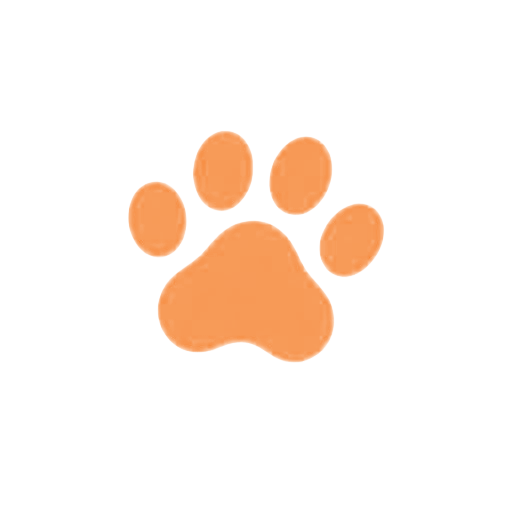
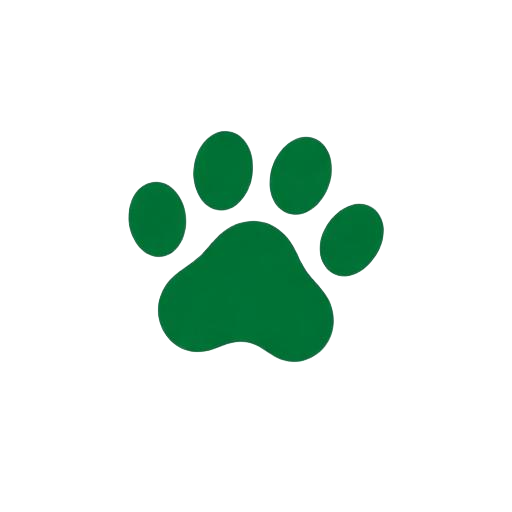
Add files via upload

Changed region(s): [[0.25, 0.25, 0.75, 0.7188]]

diff --git a/app.js b/app.js
@@ -581,4 +581,4 @@ https://github.com/nodeca/pako/blob/main/LICENSE
         h2 { margin-bottom: 5px; }
         .period { color: #666; margin-bottom: 10px; }
         @media print { body { margin: 10px; } }
-      </style></head><body>${A}</body></html>`),T.document.close(),T.print())},S=A=>{const T=yt(A);return ml(T)?zt(T,"dd/MM/yyyy"):A};return h.jsxs("div",{className:"p-2 md:p-6 space-y-4",children:[h.jsxs("h1",{className:"text-xl lg:text-2xl font-serif font-bold flex items-center gap-2",children:[h.jsx(Jw,{className:"h-6 w-6"}),"Déclaration"]}),h.jsxs(iD,{defaultValue:"urssaf",className:"space-y-4",children:[h.jsxs(W2,{children:[h.jsx(pi,{value:"urssaf",children:"URSSAF"}),h.jsx(pi,{value:"registre",children:"Livre de Registre"})]}),h.jsx(mi,{value:"urssaf",children:h.jsxs(kr,{children:[h.jsx(mn,{className:"pb-3",children:h.jsx(vn,{className:"text-lg",children:"URSSAF"})}),h.jsxs(Or,{className:"space-y-4",children:[h.jsxs("div",{className:"flex items-center gap-2 flex-wrap",children:[h.jsxs("div",{className:"flex rounded-md border border-border overflow-hidden",children:[h.jsx("button",{onClick:()=>i("trimestre"),className:ct("px-3 py-1.5 text-sm font-medium transition-colors",a==="trimestre"?"bg-primary text-primary-foreground":"bg-background hover:bg-muted"),children:"Trimestre"}),h.jsx("button",{onClick:()=>i("mois"),className:ct("px-3 py-1.5 text-sm font-medium transition-colors",a==="mois"?"bg-primary text-primary-foreground":"bg-background hover:bg-muted"),children:"Mois"})]}),h.jsxs(fn,{value:String(o),onValueChange:A=>s(Number(A)),children:[h.jsx(rn,{className:"w-24 h-8 text-sm",children:h.jsx(dn,{})}),h.jsx(nn,{children:v.map(A=>h.jsx(ir,{value:String(A),children:A},A))})]})]}),a==="trimestre"?h.jsxs(fn,{value:String(l),onValueChange:A=>c(Number(A)),children:[h.jsx(rn,{className:"w-48 h-8 text-sm",children:h.jsx(dn,{})}),h.jsx(nn,{children:n8.map((A,T)=>h.jsx(ir,{value:String(T),children:A.label},T))})]}):h.jsx("div",{className:"grid grid-cols-3 sm:grid-cols-4 gap-2",children:jWe.map((A,T)=>h.jsxs("label",{className:"flex items-center gap-1.5 text-sm cursor-pointer",children:[h.jsx(Mh,{checked:u.includes(T),onCheckedChange:()=>b(T)}),A.slice(0,3)]},T))}),h.jsx(Cy,{}),h.jsxs("div",{children:[h.jsx("h3",{className:"font-semibold text-sm mb-2",children:"Déclaration"}),h.jsx("div",{className:"bg-muted/50 rounded-md p-3",children:h.jsxs("div",{className:"flex justify-between items-center",children:[h.jsx("span",{className:"text-sm",children:"Chiffre d'affaires des prestations de services commerciales ou artisanales"}),h.jsxs("span",{className:"font-bold text-base whitespace-nowrap ml-2",children:[y.toFixed(2)," €"]})]})})]}),h.jsx(Cy,{}),h.jsxs("div",{children:[h.jsx("h3",{className:"font-semibold text-sm mb-2",children:"Cotisations"}),h.jsxs("div",{className:"space-y-2",children:[r.map((A,T)=>{const P=Math.round(y*(A.rate/100));return h.jsxs("div",{className:"flex justify-between items-center bg-muted/30 rounded-md px-3 py-2",children:[h.jsxs("span",{className:"text-sm",children:[A.name," (",A.rate,"%)"]}),h.jsxs("span",{className:"font-medium text-sm whitespace-nowrap ml-2",children:[P," €"]})]},T)}),r.length===0&&h.jsx("p",{className:"text-sm text-muted-foreground italic",children:"Aucune cotisation configurée dans les paramètres fiscaux."}),h.jsx(Cy,{}),h.jsxs("div",{className:"flex justify-between items-center bg-primary/10 rounded-md px-3 py-2",children:[h.jsx("span",{className:"font-semibold text-sm",children:"Total cotisations"}),h.jsxs("span",{className:"font-bold whitespace-nowrap ml-2",children:[r.reduce((A,T)=>A+Math.round(y*(T.rate/100)),0)," €"]})]})]})]})]})]})}),h.jsx(mi,{value:"registre",children:h.jsxs(kr,{children:[h.jsx(mn,{className:"pb-3",children:h.jsxs("div",{className:"flex items-center justify-between",children:[h.jsx(vn,{className:"text-lg",children:"Livre de Registre"}),h.jsxs(We,{variant:"outline",size:"sm",onClick:E,className:"gap-1.5",children:[h.jsx(tQ,{className:"h-4 w-4"}),"Imprimer"]})]})}),h.jsxs(Or,{className:"space-y-4",children:[h.jsxs("div",{className:"flex items-center gap-2 flex-wrap",children:[h.jsx("span",{className:"text-sm font-medium",children:"Du"}),h.jsx(ot,{type:"date",className:"w-40 h-8 text-sm",value:d?zt(d,"yyyy-MM-dd"):"",onChange:A=>{const T=A.target.value?yt(A.target.value):void 0;p(T&&ml(T)?T:void 0)}}),h.jsx("span",{className:"text-sm font-medium",children:"Au"}),h.jsx(ot,{type:"date",className:"w-40 h-8 text-sm",value:g?zt(g,"yyyy-MM-dd"):"",onChange:A=>{const T=A.target.value?yt(A.target.value):void 0;m(T&&ml(T)?T:void 0)}})]}),h.jsxs("div",{ref:n,children:[h.jsx("h2",{style:{display:"none"},children:"Livre de Registre"}),d&&g&&h.jsxs("p",{className:"period text-sm text-muted-foreground mb-2",style:{display:"none"},children:["Période : ",zt(d,"dd/MM/yyyy")," — ",zt(g,"dd/MM/yyyy")]}),h.jsx("div",{className:"overflow-x-auto rounded-md border border-border",children:h.jsxs(Is,{children:[h.jsx(Fs,{children:h.jsxs(Pn,{children:[h.jsx(Et,{className:"text-xs whitespace-nowrap",children:"Nuits réelles"}),h.jsx(Et,{className:"text-xs whitespace-nowrap",children:"Nuits registre"}),h.jsx(Et,{className:"text-xs whitespace-nowrap",children:"Date d'arrivée"}),h.jsx(Et,{className:"text-xs whitespace-nowrap",children:"Propriétaire + Adresse"}),h.jsx(Et,{className:"text-xs whitespace-nowrap",children:"Sexe"}),h.jsx(Et,{className:"text-xs whitespace-nowrap",children:"N° Identification"}),h.jsx(Et,{className:"text-xs whitespace-nowrap",children:"Race + Nom"}),h.jsx(Et,{className:"text-xs whitespace-nowrap",children:"Date de naissance"}),h.jsx(Et,{className:"text-xs whitespace-nowrap",children:"Date de départ"})]})}),h.jsx(Ms,{children:w.length===0?h.jsx(Pn,{children:h.jsx(mt,{colSpan:9,className:"text-center text-muted-foreground text-sm py-6",children:"Aucun séjour pour cette période"})}):w.map(A=>{const T=_(A.dogId),P=T?[T.ownerLastName,T.ownerFirstName].filter(Boolean).join(" "):"",I=(T==null?void 0:T.address)||"",D=[P,I].filter(Boolean).join(" — "),L=A.nights!==(A.nightsRegistre||0);return h.jsxs(Pn,{className:ct("text-xs",L&&"bg-muted/50"),children:[h.jsx(mt,{className:"whitespace-nowrap",children:A.nights}),h.jsx(mt,{className:"whitespace-nowrap",children:A.nightsRegistre||0}),h.jsx(mt,{className:"whitespace-nowrap",children:S(A.arrivalDate)}),h.jsx(mt,{className:"min-w-[160px]",children:D||"-"}),h.jsx(mt,{children:(T==null?void 0:T.sex)||"-"}),h.jsx(mt,{className:"whitespace-nowrap",children:(T==null?void 0:T.identificationNumber)||"-"}),h.jsx(mt,{className:"whitespace-nowrap",children:[T==null?void 0:T.breed,A.dogName].filter(Boolean).join(" — ")}),h.jsx(mt,{className:"whitespace-nowrap",children:T!=null&&T.birthDate?S(T.birthDate):"-"}),h.jsx(mt,{className:"whitespace-nowrap",children:S(A.departureDate)})]},A.id)})})]})})]})]})]})})]})]})},FWe=()=>{const[e,t]=k.useState(""),[r,n]=k.useState(""),[a,i]=k.useState(!1),[o,s]=k.useState(!1),[l,c]=k.useState(!1),[u,f]=k.useState(!1),{toast:d}=Bk(),p=ug();k.useEffect(()=>{const{data:{subscription:m}}=At.auth.onAuthStateChange(v=>{v==="PASSWORD_RECOVERY"&&f(!0)});return At.auth.getSession().then(({data:{session:v}})=>{v&&f(!0)}),()=>m.unsubscribe()},[]);const g=async m=>{if(m.preventDefault(),e!==r){d({title:"Erreur",description:"Les mots de passe ne correspondent pas.",variant:"destructive"});return}if(e.length<6){d({title:"Erreur",description:"Le mot de passe doit contenir au moins 6 caractères.",variant:"destructive"});return}c(!0);const{error:v}=await At.auth.updateUser({password:e});v?d({title:"Erreur",description:v.message,variant:"destructive"}):(await At.auth.signOut(),d({title:"Succès",description:"Mot de passe mis à jour avec succès."}),p("/",{replace:!0})),c(!1)};return u?h.jsx("div",{className:"min-h-screen flex items-center justify-center bg-muted/30 p-4",children:h.jsxs(kr,{className:"w-full max-w-sm",children:[h.jsxs(mn,{className:"text-center",children:[h.jsx("div",{className:"flex justify-center mb-2",children:h.jsx(iB,{className:"h-10 w-10 text-primary"})}),h.jsx(vn,{className:"text-xl",children:"Nouveau mot de passe"}),h.jsx("p",{className:"text-sm text-muted-foreground",children:"Saisissez votre nouveau mot de passe"})]}),h.jsx(Or,{children:h.jsxs("form",{onSubmit:g,className:"space-y-4",children:[h.jsxs("div",{className:"space-y-2",children:[h.jsx(at,{htmlFor:"new-password",children:"Nouveau mot de passe"}),h.jsxs("div",{className:"relative",children:[h.jsx(ot,{id:"new-password",type:a?"text":"password",value:e,onChange:m=>t(m.target.value),required:!0,autoComplete:"new-password",className:"pr-10"}),h.jsx("button",{type:"button",onClick:()=>i(!a),className:"absolute right-3 top-1/2 -translate-y-1/2 text-muted-foreground hover:text-foreground transition-colors",tabIndex:-1,children:a?h.jsx(Qy,{className:"h-4 w-4"}):h.jsx(Nm,{className:"h-4 w-4"})})]})]}),h.jsxs("div",{className:"space-y-2",children:[h.jsx(at,{htmlFor:"confirm-password",children:"Confirmer le mot de passe"}),h.jsxs("div",{className:"relative",children:[h.jsx(ot,{id:"confirm-password",type:o?"text":"password",value:r,onChange:m=>n(m.target.value),required:!0,autoComplete:"new-password",className:"pr-10"}),h.jsx("button",{type:"button",onClick:()=>s(!o),className:"absolute right-3 top-1/2 -translate-y-1/2 text-muted-foreground hover:text-foreground transition-colors",tabIndex:-1,children:o?h.jsx(Qy,{className:"h-4 w-4"}):h.jsx(Nm,{className:"h-4 w-4"})})]})]}),h.jsx(We,{type:"submit",className:"w-full",disabled:l,children:l?"Enregistrement...":"Enregistrer le nouveau mot de passe"})]})})]})}):h.jsx("div",{className:"min-h-screen flex items-center justify-center bg-muted/30 p-4",children:h.jsx("div",{className:"animate-spin h-8 w-8 border-4 border-primary border-t-transparent rounded-full"})})},MWe=()=>{const e=zf();return k.useEffect(()=>{console.error("404 Error: User attempted to access non-existent route:",e.pathname)},[e.pathname]),h.jsx("div",{className:"flex min-h-screen items-center justify-center bg-muted",children:h.jsxs("div",{className:"text-center",children:[h.jsx("h1",{className:"mb-4 text-4xl font-bold",children:"404"}),h.jsx("p",{className:"mb-4 text-xl text-muted-foreground",children:"Oops! Page not found"}),h.jsx("a",{href:"/",className:"text-primary underline hover:text-primary/90",children:"Return to Home"})]})})},RWe=new Tte,LWe=()=>h.jsx(Cte,{client:RWe,children:h.jsxs(Xp,{children:[h.jsx(BQ,{}),h.jsx(gJ,{}),h.jsx(Sre,{children:h.jsxs(y4,{children:[h.jsx(lo,{path:"/reset-password",element:h.jsx(FWe,{})}),h.jsx(lo,{path:"/*",element:h.jsx(gae,{children:h.jsx(uae,{children:h.jsx(yae,{children:h.jsxs(y4,{children:[h.jsx(lo,{path:"/",element:h.jsx(aoe,{})}),h.jsx(lo,{path:"/sejour/nouveau",element:h.jsx(Jfe,{})}),h.jsx(lo,{path:"/clients",element:h.jsx(bde,{})}),h.jsx(lo,{path:"/sejours",element:h.jsx(Ade,{})}),h.jsx(lo,{path:"/calendrier",element:h.jsx(kde,{})}),h.jsx(lo,{path:"/bilan",element:h.jsx(aFe,{})}),h.jsx(lo,{path:"/declaration",element:h.jsx(IWe,{})}),h.jsx(lo,{path:"/parametres",element:h.jsx(OWe,{})}),h.jsx(lo,{path:"*",element:h.jsx(MWe,{})})]})})})})})]})})]})}),BWe=(()=>{try{return window.self!==window.top}catch{return!0}})(),$We=window.location.hostname.includes("id-preview--")||window.location.hostname.includes("lovableproject.com");var d8;($We||BWe)&&((d8=navigator.serviceWorker)==null||d8.getRegistrations().then(e=>{e.forEach(t=>t.unregister())}));AL(document.getElementById("root")).render(h.jsx(LWe,{}));{document.title="CdC TEST";const e=document.createElement("div");e.textContent="VERSION TEST",e.setAttribute("style","position:fixed;z-index:9999;right:calc(12px + env(safe-area-inset-right,0px));bottom:calc(12px + env(safe-area-inset-bottom,0px));background:#EA580C;color:#fff;font:700 12px/1 Poppins,system-ui,sans-serif;letter-spacing:.06em;padding:8px 12px;border-radius:999px;box-shadow:0 2px 6px rgba(0,0,0,.25);pointer-events:none;"),document.body.appendChild(e)}
+      </style></head><body>${A}</body></html>`),T.document.close(),T.print())},S=A=>{const T=yt(A);return ml(T)?zt(T,"dd/MM/yyyy"):A};return h.jsxs("div",{className:"p-2 md:p-6 space-y-4",children:[h.jsxs("h1",{className:"text-xl lg:text-2xl font-serif font-bold flex items-center gap-2",children:[h.jsx(Jw,{className:"h-6 w-6"}),"Déclaration"]}),h.jsxs(iD,{defaultValue:"urssaf",className:"space-y-4",children:[h.jsxs(W2,{children:[h.jsx(pi,{value:"urssaf",children:"URSSAF"}),h.jsx(pi,{value:"registre",children:"Livre de Registre"})]}),h.jsx(mi,{value:"urssaf",children:h.jsxs(kr,{children:[h.jsx(mn,{className:"pb-3",children:h.jsx(vn,{className:"text-lg",children:"URSSAF"})}),h.jsxs(Or,{className:"space-y-4",children:[h.jsxs("div",{className:"flex items-center gap-2 flex-wrap",children:[h.jsxs("div",{className:"flex rounded-md border border-border overflow-hidden",children:[h.jsx("button",{onClick:()=>i("trimestre"),className:ct("px-3 py-1.5 text-sm font-medium transition-colors",a==="trimestre"?"bg-primary text-primary-foreground":"bg-background hover:bg-muted"),children:"Trimestre"}),h.jsx("button",{onClick:()=>i("mois"),className:ct("px-3 py-1.5 text-sm font-medium transition-colors",a==="mois"?"bg-primary text-primary-foreground":"bg-background hover:bg-muted"),children:"Mois"})]}),h.jsxs(fn,{value:String(o),onValueChange:A=>s(Number(A)),children:[h.jsx(rn,{className:"w-24 h-8 text-sm",children:h.jsx(dn,{})}),h.jsx(nn,{children:v.map(A=>h.jsx(ir,{value:String(A),children:A},A))})]})]}),a==="trimestre"?h.jsxs(fn,{value:String(l),onValueChange:A=>c(Number(A)),children:[h.jsx(rn,{className:"w-48 h-8 text-sm",children:h.jsx(dn,{})}),h.jsx(nn,{children:n8.map((A,T)=>h.jsx(ir,{value:String(T),children:A.label},T))})]}):h.jsx("div",{className:"grid grid-cols-3 sm:grid-cols-4 gap-2",children:jWe.map((A,T)=>h.jsxs("label",{className:"flex items-center gap-1.5 text-sm cursor-pointer",children:[h.jsx(Mh,{checked:u.includes(T),onCheckedChange:()=>b(T)}),A.slice(0,3)]},T))}),h.jsx(Cy,{}),h.jsxs("div",{children:[h.jsx("h3",{className:"font-semibold text-sm mb-2",children:"Déclaration"}),h.jsx("div",{className:"bg-muted/50 rounded-md p-3",children:h.jsxs("div",{className:"flex justify-between items-center",children:[h.jsx("span",{className:"text-sm",children:"Chiffre d'affaires des prestations de services commerciales ou artisanales"}),h.jsxs("span",{className:"font-bold text-base whitespace-nowrap ml-2",children:[y.toFixed(2)," €"]})]})})]}),h.jsx(Cy,{}),h.jsxs("div",{children:[h.jsx("h3",{className:"font-semibold text-sm mb-2",children:"Cotisations"}),h.jsxs("div",{className:"space-y-2",children:[r.map((A,T)=>{const P=Math.round(y*(A.rate/100));return h.jsxs("div",{className:"flex justify-between items-center bg-muted/30 rounded-md px-3 py-2",children:[h.jsxs("span",{className:"text-sm",children:[A.name," (",A.rate,"%)"]}),h.jsxs("span",{className:"font-medium text-sm whitespace-nowrap ml-2",children:[P," €"]})]},T)}),r.length===0&&h.jsx("p",{className:"text-sm text-muted-foreground italic",children:"Aucune cotisation configurée dans les paramètres fiscaux."}),h.jsx(Cy,{}),h.jsxs("div",{className:"flex justify-between items-center bg-primary/10 rounded-md px-3 py-2",children:[h.jsx("span",{className:"font-semibold text-sm",children:"Total cotisations"}),h.jsxs("span",{className:"font-bold whitespace-nowrap ml-2",children:[r.reduce((A,T)=>A+Math.round(y*(T.rate/100)),0)," €"]})]})]})]})]})]})}),h.jsx(mi,{value:"registre",children:h.jsxs(kr,{children:[h.jsx(mn,{className:"pb-3",children:h.jsxs("div",{className:"flex items-center justify-between",children:[h.jsx(vn,{className:"text-lg",children:"Livre de Registre"}),h.jsxs(We,{variant:"outline",size:"sm",onClick:E,className:"gap-1.5",children:[h.jsx(tQ,{className:"h-4 w-4"}),"Imprimer"]})]})}),h.jsxs(Or,{className:"space-y-4",children:[h.jsxs("div",{className:"flex items-center gap-2 flex-wrap",children:[h.jsx("span",{className:"text-sm font-medium",children:"Du"}),h.jsx(ot,{type:"date",className:"w-40 h-8 text-sm",value:d?zt(d,"yyyy-MM-dd"):"",onChange:A=>{const T=A.target.value?yt(A.target.value):void 0;p(T&&ml(T)?T:void 0)}}),h.jsx("span",{className:"text-sm font-medium",children:"Au"}),h.jsx(ot,{type:"date",className:"w-40 h-8 text-sm",value:g?zt(g,"yyyy-MM-dd"):"",onChange:A=>{const T=A.target.value?yt(A.target.value):void 0;m(T&&ml(T)?T:void 0)}})]}),h.jsxs("div",{ref:n,children:[h.jsx("h2",{style:{display:"none"},children:"Livre de Registre"}),d&&g&&h.jsxs("p",{className:"period text-sm text-muted-foreground mb-2",style:{display:"none"},children:["Période : ",zt(d,"dd/MM/yyyy")," — ",zt(g,"dd/MM/yyyy")]}),h.jsx("div",{className:"overflow-x-auto rounded-md border border-border",children:h.jsxs(Is,{children:[h.jsx(Fs,{children:h.jsxs(Pn,{children:[h.jsx(Et,{className:"text-xs whitespace-nowrap",children:"Nuits réelles"}),h.jsx(Et,{className:"text-xs whitespace-nowrap",children:"Nuits registre"}),h.jsx(Et,{className:"text-xs whitespace-nowrap",children:"Date d'arrivée"}),h.jsx(Et,{className:"text-xs whitespace-nowrap",children:"Propriétaire + Adresse"}),h.jsx(Et,{className:"text-xs whitespace-nowrap",children:"Sexe"}),h.jsx(Et,{className:"text-xs whitespace-nowrap",children:"N° Identification"}),h.jsx(Et,{className:"text-xs whitespace-nowrap",children:"Race + Nom"}),h.jsx(Et,{className:"text-xs whitespace-nowrap",children:"Date de naissance"}),h.jsx(Et,{className:"text-xs whitespace-nowrap",children:"Date de départ"})]})}),h.jsx(Ms,{children:w.length===0?h.jsx(Pn,{children:h.jsx(mt,{colSpan:9,className:"text-center text-muted-foreground text-sm py-6",children:"Aucun séjour pour cette période"})}):w.map(A=>{const T=_(A.dogId),P=T?[T.ownerLastName,T.ownerFirstName].filter(Boolean).join(" "):"",I=(T==null?void 0:T.address)||"",D=[P,I].filter(Boolean).join(" — "),L=A.nights!==(A.nightsRegistre||0);return h.jsxs(Pn,{className:ct("text-xs",L&&"bg-muted/50"),children:[h.jsx(mt,{className:"whitespace-nowrap",children:A.nights}),h.jsx(mt,{className:"whitespace-nowrap",children:A.nightsRegistre||0}),h.jsx(mt,{className:"whitespace-nowrap",children:S(A.arrivalDate)}),h.jsx(mt,{className:"min-w-[160px]",children:D||"-"}),h.jsx(mt,{children:(T==null?void 0:T.sex)||"-"}),h.jsx(mt,{className:"whitespace-nowrap",children:(T==null?void 0:T.identificationNumber)||"-"}),h.jsx(mt,{className:"whitespace-nowrap",children:[T==null?void 0:T.breed,A.dogName].filter(Boolean).join(" — ")}),h.jsx(mt,{className:"whitespace-nowrap",children:T!=null&&T.birthDate?S(T.birthDate):"-"}),h.jsx(mt,{className:"whitespace-nowrap",children:S(A.departureDate)})]},A.id)})})]})})]})]})]})})]})]})},FWe=()=>{const[e,t]=k.useState(""),[r,n]=k.useState(""),[a,i]=k.useState(!1),[o,s]=k.useState(!1),[l,c]=k.useState(!1),[u,f]=k.useState(!1),{toast:d}=Bk(),p=ug();k.useEffect(()=>{const{data:{subscription:m}}=At.auth.onAuthStateChange(v=>{v==="PASSWORD_RECOVERY"&&f(!0)});return At.auth.getSession().then(({data:{session:v}})=>{v&&f(!0)}),()=>m.unsubscribe()},[]);const g=async m=>{if(m.preventDefault(),e!==r){d({title:"Erreur",description:"Les mots de passe ne correspondent pas.",variant:"destructive"});return}if(e.length<6){d({title:"Erreur",description:"Le mot de passe doit contenir au moins 6 caractères.",variant:"destructive"});return}c(!0);const{error:v}=await At.auth.updateUser({password:e});v?d({title:"Erreur",description:v.message,variant:"destructive"}):(await At.auth.signOut(),d({title:"Succès",description:"Mot de passe mis à jour avec succès."}),p("/",{replace:!0})),c(!1)};return u?h.jsx("div",{className:"min-h-screen flex items-center justify-center bg-muted/30 p-4",children:h.jsxs(kr,{className:"w-full max-w-sm",children:[h.jsxs(mn,{className:"text-center",children:[h.jsx("div",{className:"flex justify-center mb-2",children:h.jsx(iB,{className:"h-10 w-10 text-primary"})}),h.jsx(vn,{className:"text-xl",children:"Nouveau mot de passe"}),h.jsx("p",{className:"text-sm text-muted-foreground",children:"Saisissez votre nouveau mot de passe"})]}),h.jsx(Or,{children:h.jsxs("form",{onSubmit:g,className:"space-y-4",children:[h.jsxs("div",{className:"space-y-2",children:[h.jsx(at,{htmlFor:"new-password",children:"Nouveau mot de passe"}),h.jsxs("div",{className:"relative",children:[h.jsx(ot,{id:"new-password",type:a?"text":"password",value:e,onChange:m=>t(m.target.value),required:!0,autoComplete:"new-password",className:"pr-10"}),h.jsx("button",{type:"button",onClick:()=>i(!a),className:"absolute right-3 top-1/2 -translate-y-1/2 text-muted-foreground hover:text-foreground transition-colors",tabIndex:-1,children:a?h.jsx(Qy,{className:"h-4 w-4"}):h.jsx(Nm,{className:"h-4 w-4"})})]})]}),h.jsxs("div",{className:"space-y-2",children:[h.jsx(at,{htmlFor:"confirm-password",children:"Confirmer le mot de passe"}),h.jsxs("div",{className:"relative",children:[h.jsx(ot,{id:"confirm-password",type:o?"text":"password",value:r,onChange:m=>n(m.target.value),required:!0,autoComplete:"new-password",className:"pr-10"}),h.jsx("button",{type:"button",onClick:()=>s(!o),className:"absolute right-3 top-1/2 -translate-y-1/2 text-muted-foreground hover:text-foreground transition-colors",tabIndex:-1,children:o?h.jsx(Qy,{className:"h-4 w-4"}):h.jsx(Nm,{className:"h-4 w-4"})})]})]}),h.jsx(We,{type:"submit",className:"w-full",disabled:l,children:l?"Enregistrement...":"Enregistrer le nouveau mot de passe"})]})})]})}):h.jsx("div",{className:"min-h-screen flex items-center justify-center bg-muted/30 p-4",children:h.jsx("div",{className:"animate-spin h-8 w-8 border-4 border-primary border-t-transparent rounded-full"})})},MWe=()=>{const e=zf();return k.useEffect(()=>{console.error("404 Error: User attempted to access non-existent route:",e.pathname)},[e.pathname]),h.jsx("div",{className:"flex min-h-screen items-center justify-center bg-muted",children:h.jsxs("div",{className:"text-center",children:[h.jsx("h1",{className:"mb-4 text-4xl font-bold",children:"404"}),h.jsx("p",{className:"mb-4 text-xl text-muted-foreground",children:"Oops! Page not found"}),h.jsx("a",{href:"/",className:"text-primary underline hover:text-primary/90",children:"Return to Home"})]})})},RWe=new Tte,LWe=()=>h.jsx(Cte,{client:RWe,children:h.jsxs(Xp,{children:[h.jsx(BQ,{}),h.jsx(gJ,{}),h.jsx(Sre,{children:h.jsxs(y4,{children:[h.jsx(lo,{path:"/reset-password",element:h.jsx(FWe,{})}),h.jsx(lo,{path:"/*",element:h.jsx(gae,{children:h.jsx(uae,{children:h.jsx(yae,{children:h.jsxs(y4,{children:[h.jsx(lo,{path:"/",element:h.jsx(aoe,{})}),h.jsx(lo,{path:"/sejour/nouveau",element:h.jsx(Jfe,{})}),h.jsx(lo,{path:"/clients",element:h.jsx(bde,{})}),h.jsx(lo,{path:"/sejours",element:h.jsx(Ade,{})}),h.jsx(lo,{path:"/calendrier",element:h.jsx(kde,{})}),h.jsx(lo,{path:"/bilan",element:h.jsx(aFe,{})}),h.jsx(lo,{path:"/declaration",element:h.jsx(IWe,{})}),h.jsx(lo,{path:"/parametres",element:h.jsx(OWe,{})}),h.jsx(lo,{path:"*",element:h.jsx(MWe,{})})]})})})})})]})})]})}),BWe=(()=>{try{return window.self!==window.top}catch{return!0}})(),$We=window.location.hostname.includes("id-preview--")||window.location.hostname.includes("lovableproject.com");var d8;($We||BWe)&&((d8=navigator.serviceWorker)==null||d8.getRegistrations().then(e=>{e.forEach(t=>t.unregister())}));AL(document.getElementById("root")).render(h.jsx(LWe,{}));

diff --git a/sw.js b/sw.js
@@ -1,1 +1,1 @@
-if(!self.define){let e,n={};const i=(i,l)=>(i=new URL(i+".js",l).href,n[i]||new Promise(n=>{if("document"in self){const e=document.createElement("script");e.src=i,e.onload=n,document.head.appendChild(e)}else e=i,importScripts(i),n()}).then(()=>{let e=n[i];if(!e)throw new Error(`Module ${i} didn’t register its module`);return e}));self.define=(l,r)=>{const o=e||("document"in self?document.currentScript.src:"")||location.href;if(n[o])return;let s={};const u=e=>i(e,o),c={module:{uri:o},exports:s,require:u};n[o]=Promise.all(l.map(e=>c[e]||u(e))).then(e=>(r(...e),s))}}define(["./workbox-ee9d8b34"],function(e){"use strict";self.skipWaiting(),e.clientsClaim(),e.precacheAndRoute([{url:"registerSW.js",revision:null},{url:"pwa-icon-512.png",revision:null},{url:"pwa-icon-192.png",revision:null},{url:"placeholder.svg",revision:null},{url:"logo_canins_des_champs.png",revision:null},{url:"index.html",revision:null},{url:"index.css",revision:null},{url:"favicon.ico",revision:null},{url:"contrat.docx",revision:null},{url:"app.js",revision:null},{url:"pwa-icon-192.png",revision:"dd674a5580399adabfb2e99e347808e6"},{url:"pwa-icon-512.png",revision:"f66471eb320966d4c2cafdd3b24ceff0"},{url:"manifest.webmanifest",revision:"40840a7bf6d3bd6ecedd04522fd734e4"}],{}),e.cleanupOutdatedCaches(),e.registerRoute(new e.NavigationRoute(e.createHandlerBoundToURL("index.html"),{denylist:[/^\/~oauth/]})),e.registerRoute(/config\.js$/,new e.NetworkFirst({cacheName:"cdc-config",plugins:[]}),"GET")});
+if(!self.define){let n,e={};const i=(i,l)=>(i=new URL(i+".js",l).href,e[i]||new Promise(e=>{if("document"in self){const n=document.createElement("script");n.src=i,n.onload=e,document.head.appendChild(n)}else n=i,importScripts(i),e()}).then(()=>{let n=e[i];if(!n)throw new Error(`Module ${i} didn’t register its module`);return n}));self.define=(l,r)=>{const o=n||("document"in self?document.currentScript.src:"")||location.href;if(e[o])return;let s={};const c=n=>i(n,o),u={module:{uri:o},exports:s,require:c};e[o]=Promise.all(l.map(n=>u[n]||c(n))).then(n=>(r(...n),s))}}define(["./workbox-ee9d8b34"],function(n){"use strict";self.skipWaiting(),n.clientsClaim(),n.precacheAndRoute([{url:"registerSW.js",revision:null},{url:"pwa-icon-512.png",revision:null},{url:"pwa-icon-192.png",revision:null},{url:"placeholder.svg",revision:null},{url:"logo_canins_des_champs.png",revision:null},{url:"index.html",revision:null},{url:"index.css",revision:null},{url:"favicon.ico",revision:null},{url:"contrat.docx",revision:null},{url:"app.js",revision:null},{url:"pwa-icon-192.png",revision:"1c3964d6fca1b3590c46dd9fb79697ca"},{url:"pwa-icon-512.png",revision:"b9d044525d7891db279e2fc01250558c"},{url:"manifest.webmanifest",revision:"047cb9a0bb70f6e7d1061e153289cce8"}],{}),n.cleanupOutdatedCaches(),n.registerRoute(new n.NavigationRoute(n.createHandlerBoundToURL("index.html"),{denylist:[/^\/~oauth/]})),n.registerRoute(/config\.js$/,new n.NetworkFirst({cacheName:"cdc-config",plugins:[]}),"GET")});
